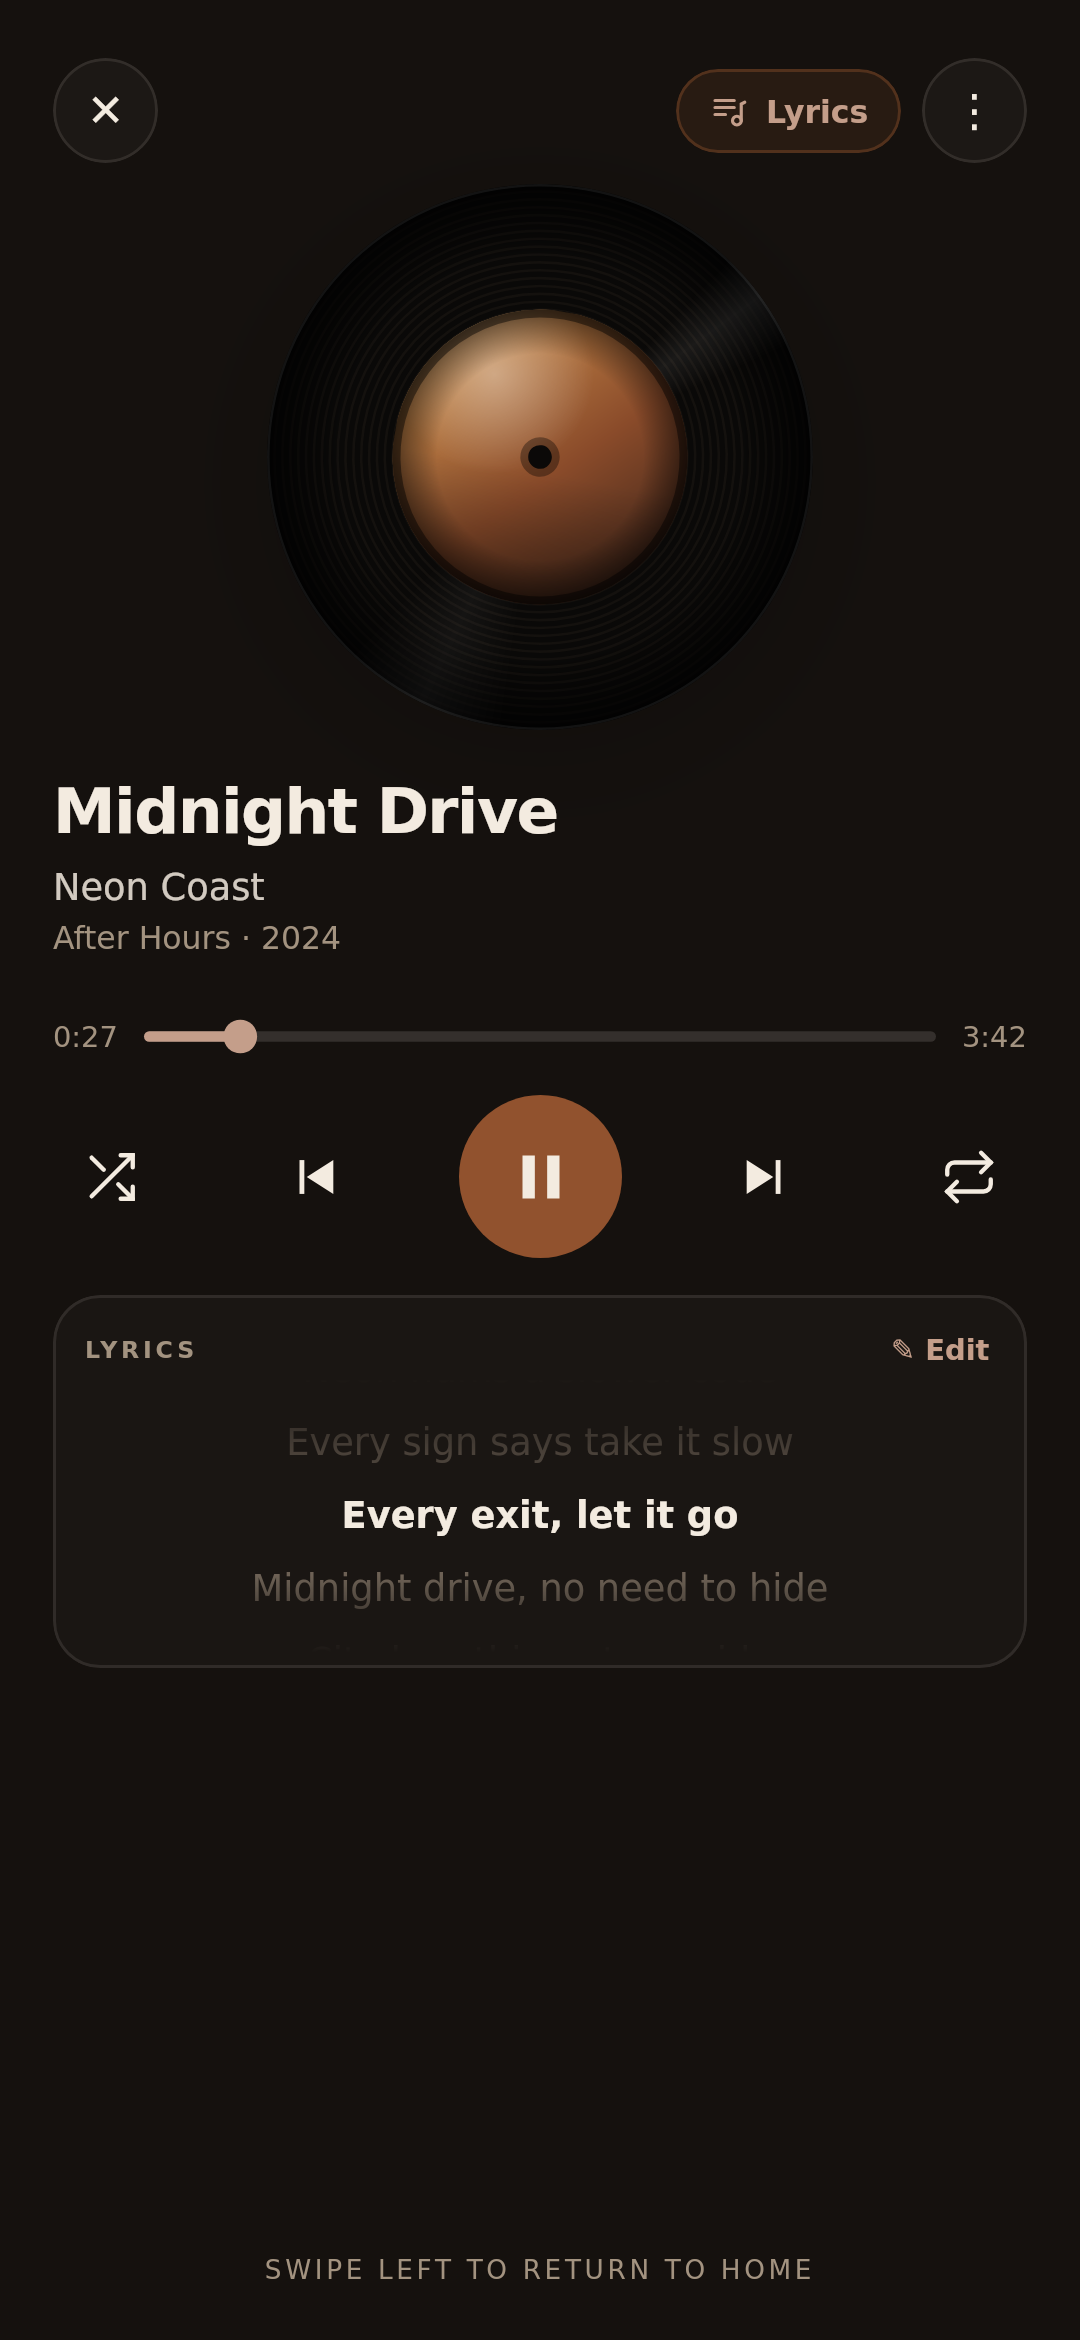
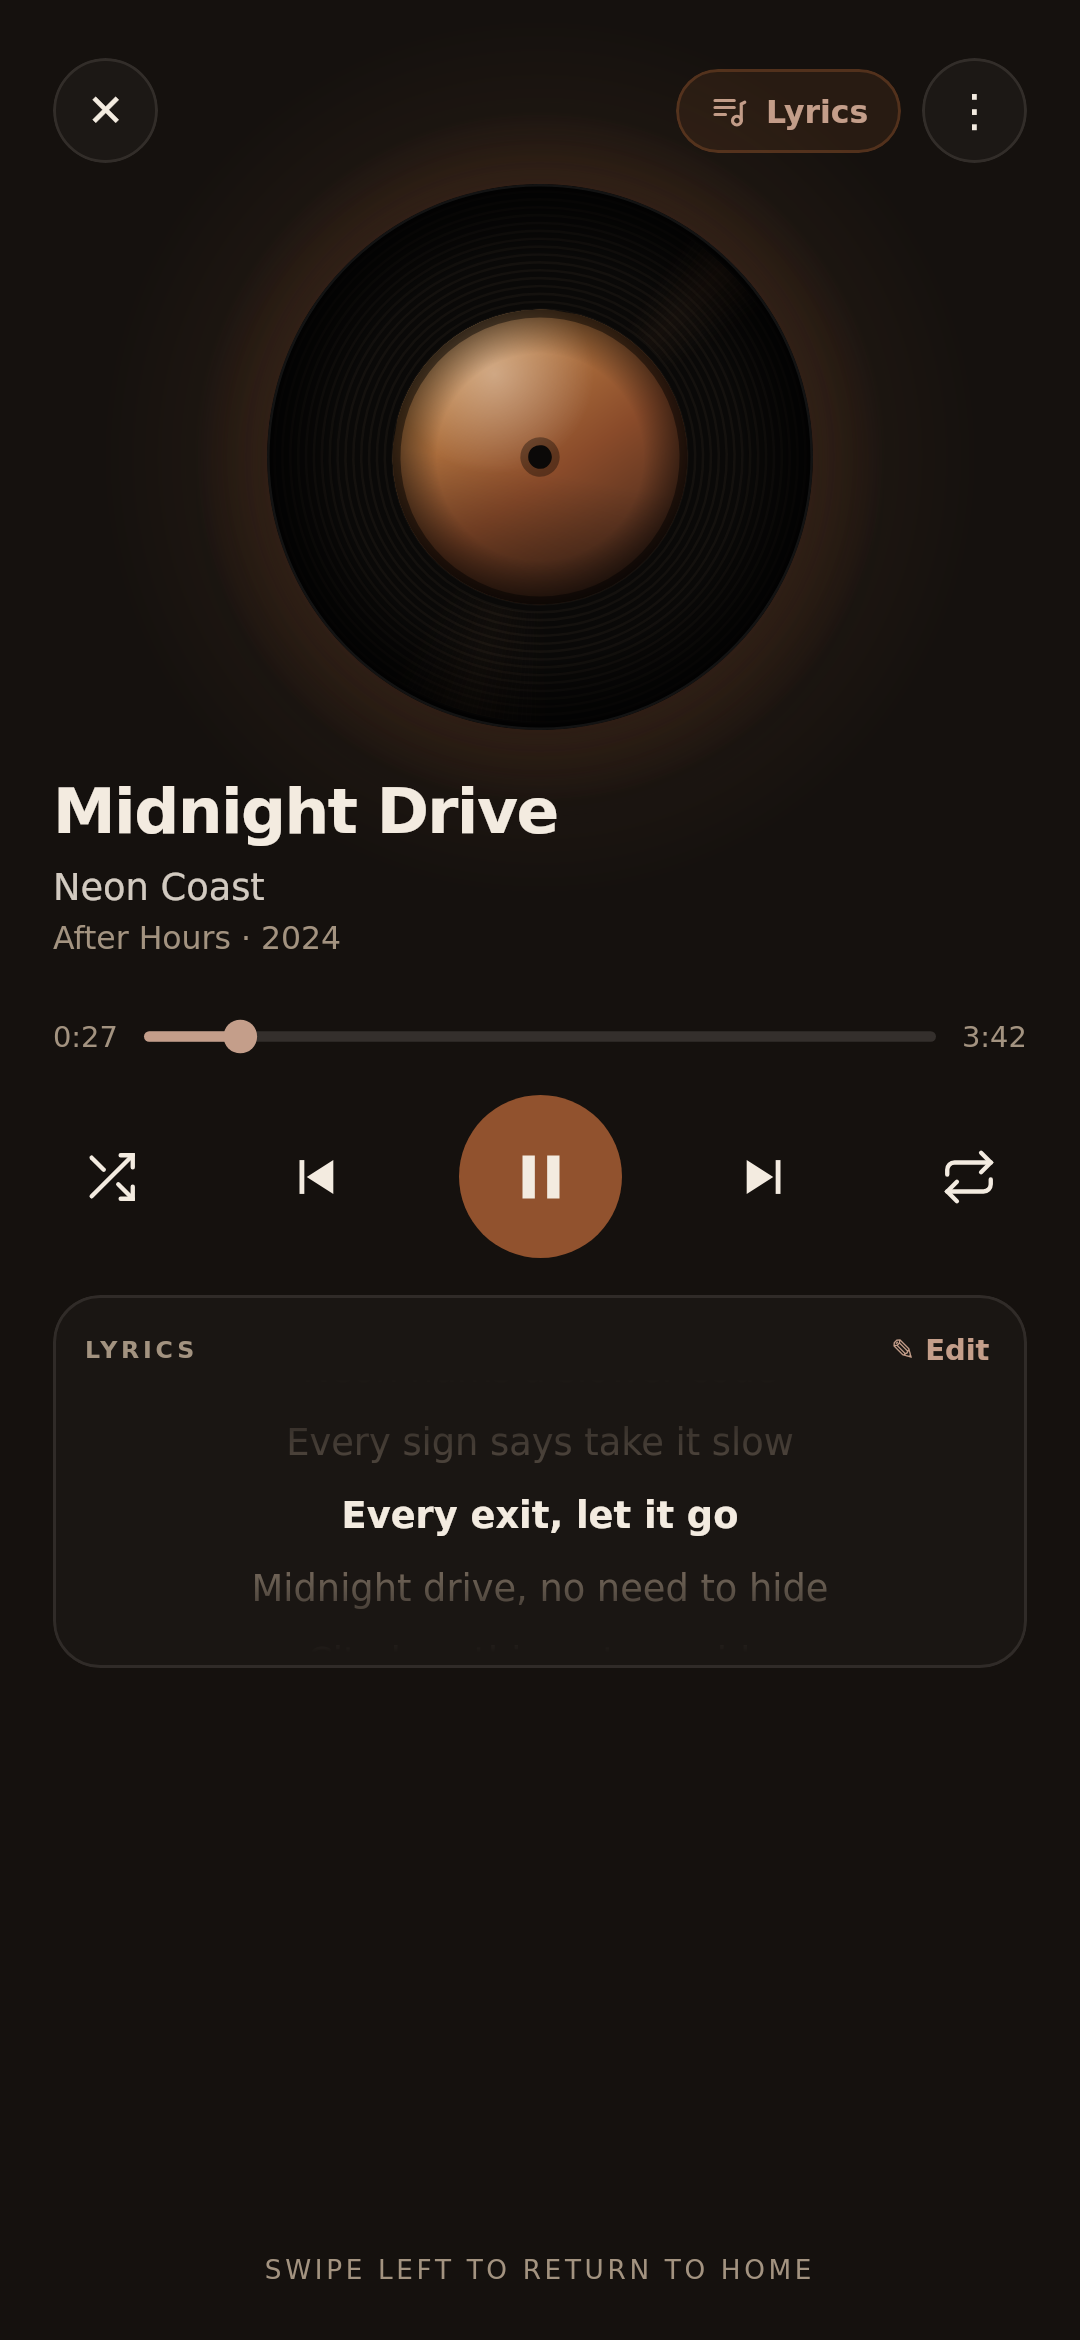
F-Droid store screenshots: still shine, Shine brightness and Battery Saver

diff --git a/project-changelog/2026-11-06/store-screenshots-refresh.md b/project-changelog/2026-11-06/store-screenshots-refresh.md
@@ -1,0 +1,20 @@
+# F-Droid store screenshots refreshed
+
+- **Time:** 2026-11-06 14:09 UTC
+- **Performed By:** AI-Agent (Anthropic Claude Opus 5.5, via Claude Code)
+- **Approved By:** Project manager ("Go ahead with the screenshots")
+
+## Changes
+- **Re-rendered from the current app** with the screen-test sample library (made-up songs, no personal data):
+  `cd project/framework && STORE_SCREENSHOTS=1 ./gradlew :shared:jvmTest --rerun --tests '*storeScreenshots'`.
+  - `--rerun` is needed: Gradle doesn't see the environment variable as a change and would otherwise skip the run.
+- **Replaced in `fastlane/metadata/android/en-US/images/phoneScreenshots/`:**
+  - `1_now-playing.png` and `2_home.png`: the record's still accent shine and backlight.
+  - `6_settings.png`: the new Shine brightness and Battery Saver rows.
+  - All are 1080×2340.
+- **Unchanged** (the new render was identical): `3_library.png`, `4_playlist.png`, `5_convert-to-audio.png`.
+- **Prior versions:** `version-control/fastlane/2026-11-06_1409/`.
+
+## Impacts
+- Store listing images only.
+- The listing text doesn't mention Battery Saver or Shine brightness. That's optional, and left as is.
